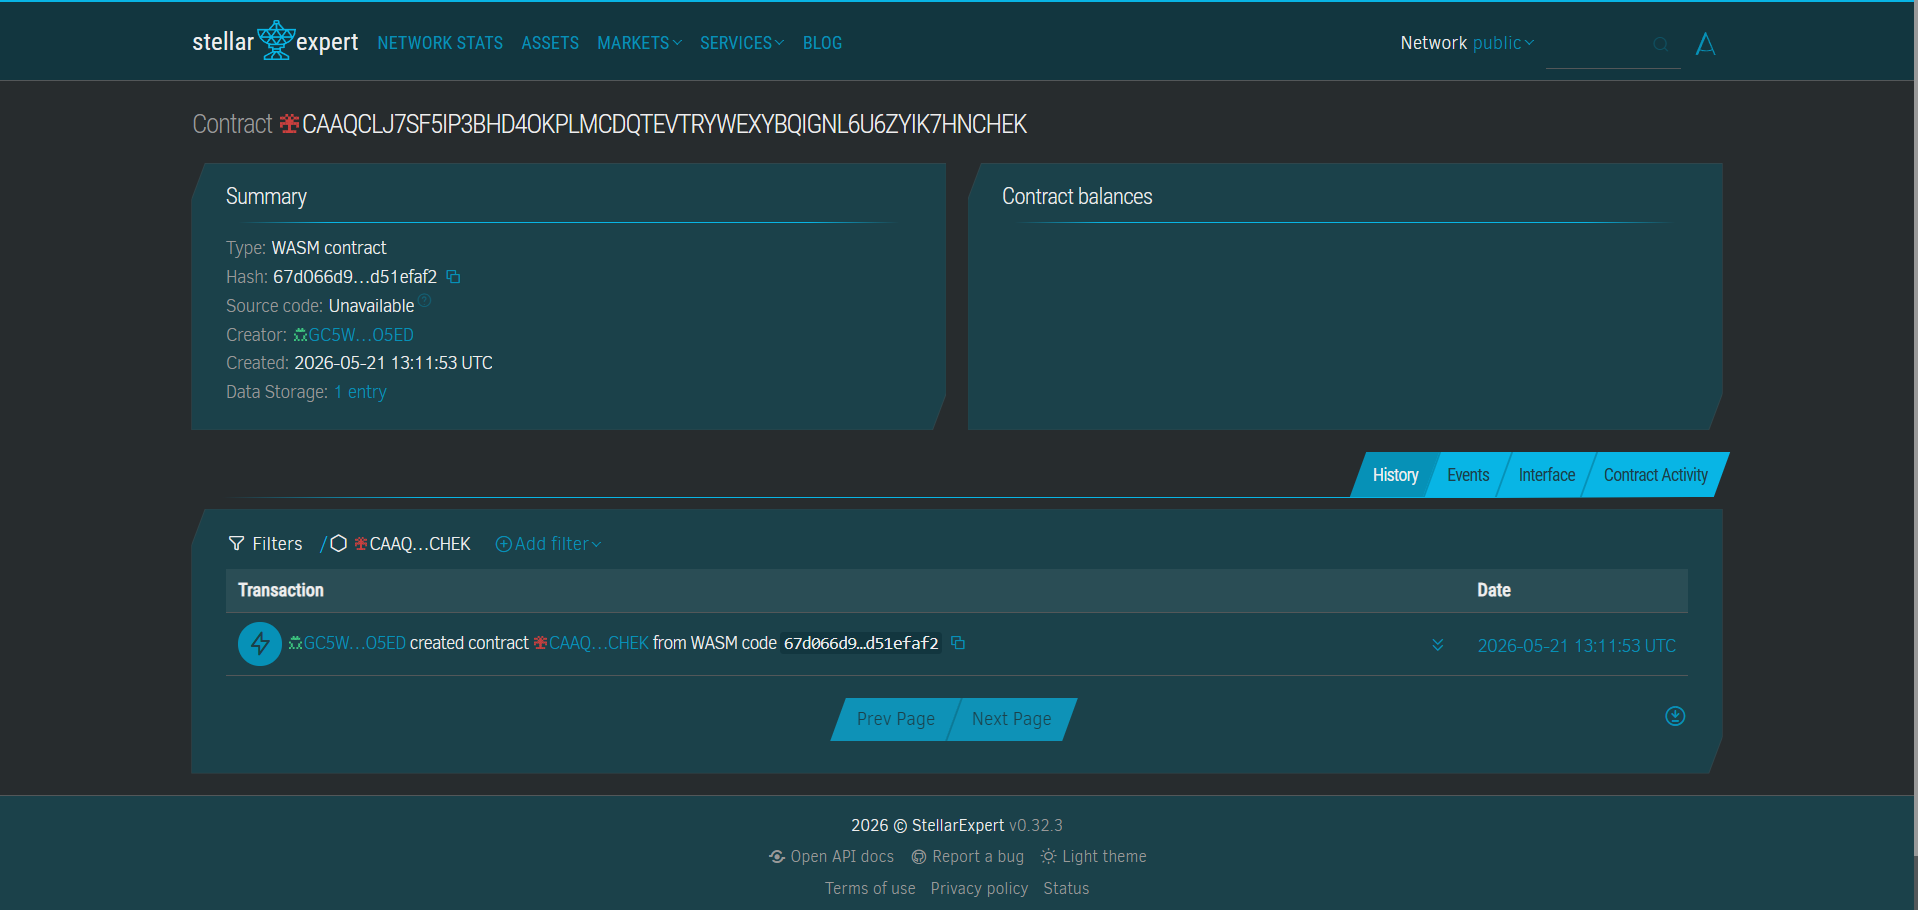
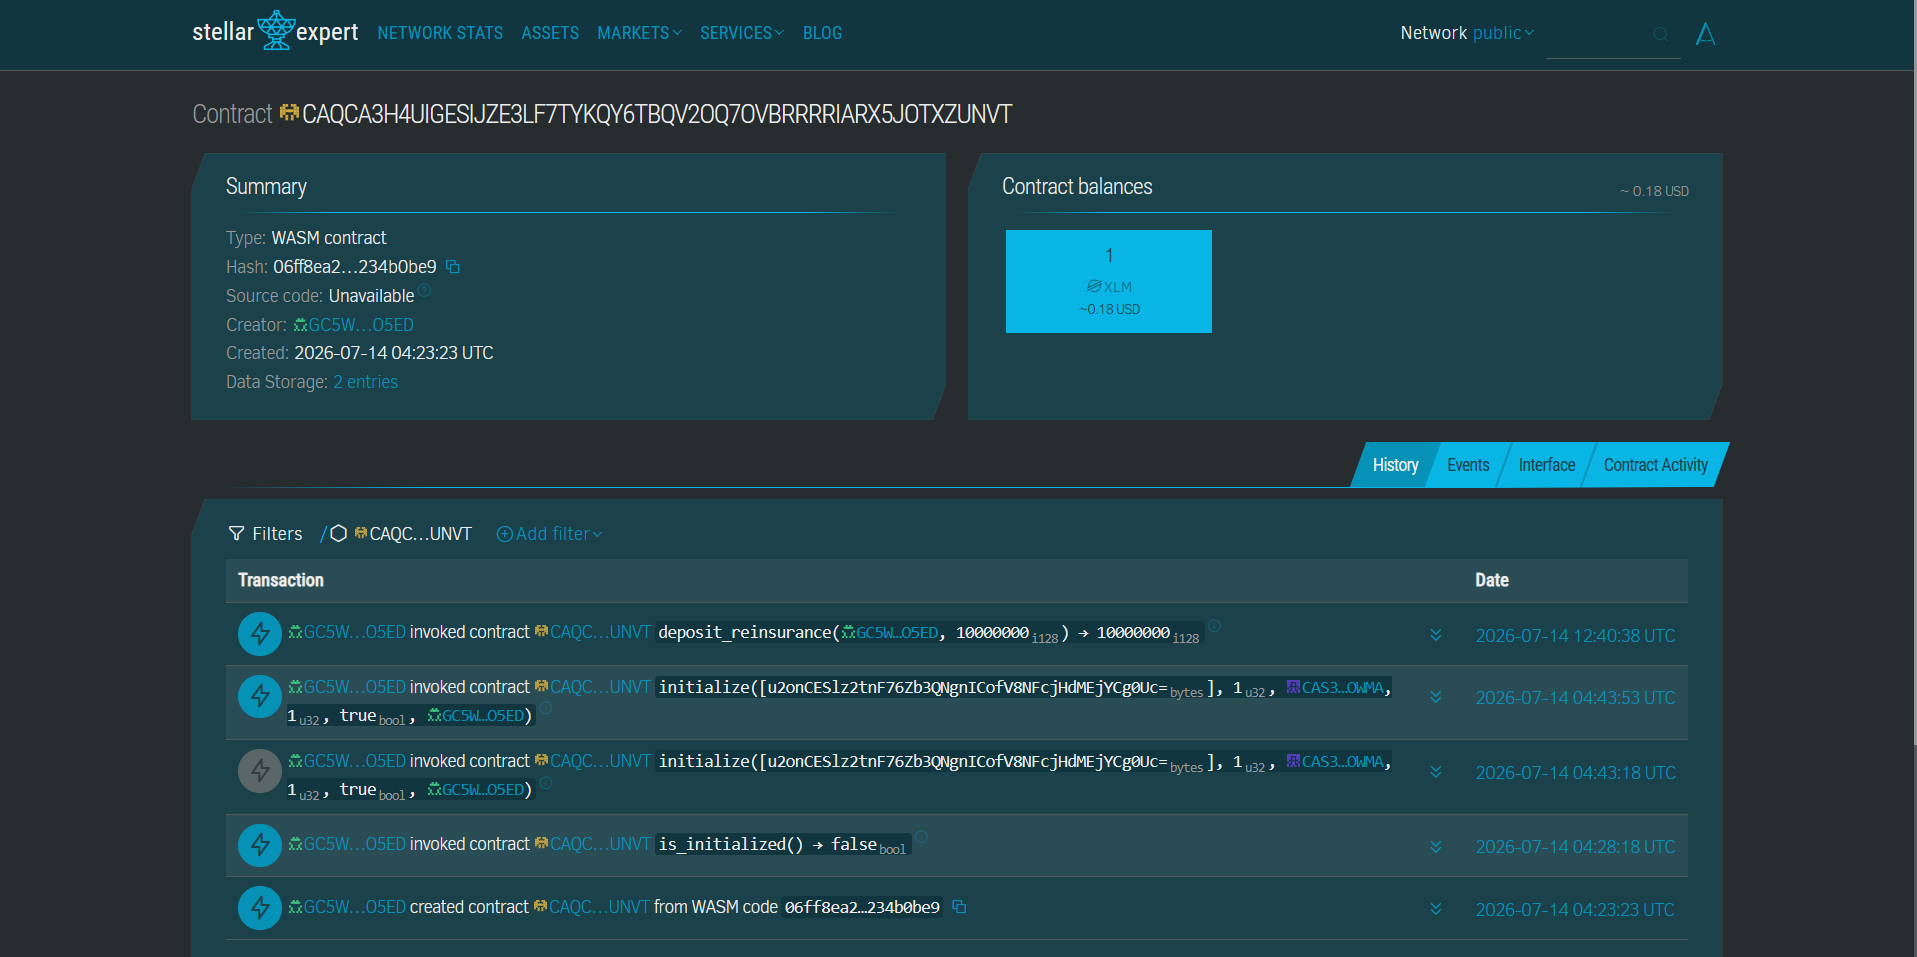
fix: correctly calculate remaining ledgers for deadline display

diff --git a/frontend/src/components/GovernancePortal.tsx b/frontend/src/components/GovernancePortal.tsx
@@ -88,7 +88,13 @@ export function GovernancePortal({ walletAddress, network }: GovernancePortalPro
           const countResult = await server.simulateTransaction(txCount);
 
           if (countResult && rpc.Api.isSimulationSuccess(countResult) && countResult.result) {
-            const count = Number(scValToNative(countResult.result.retval));
+            const countVal = scValToNative(countResult.result.retval);
+            const count = Number(countVal);
+            
+            // Get current ledger for date calculation
+            const latestLedgerResp = await server.getLatestLedger();
+            const currentLedger = latestLedgerResp.sequence;
+            
             const fetchedProposals: Proposal[] = [];
 
             for (let i = 1; i <= count; i++) {
@@ -107,11 +113,8 @@ export function GovernancePortal({ walletAddress, network }: GovernancePortalPro
                 const descStr = typeof p.description === 'string' ? p.description : String(p.description);
                 
                 // Convert ledger sequence deadline to approximate JS timestamp
-                // Assume current ledger is roughly Date.now(), and each ledger is ~5 seconds
-                // Since we don't have current ledger sequence easily here without an extra call, 
-                // we just use a heuristic or display it as a relative time.
-                // For a proper implementation, we would query the latest ledger sequence.
-                const approximateDeadlineTs = Date.now() + (Number(p.deadline) * 5000) - (Date.now() % 5000); 
+                // Use current network ledger and multiply the difference by ~5 seconds per ledger
+                const approximateDeadlineTs = Date.now() + (Number(p.deadline) - currentLedger) * 5000; 
 
                 fetchedProposals.push({
                   id: Number(p.id || p[0]),